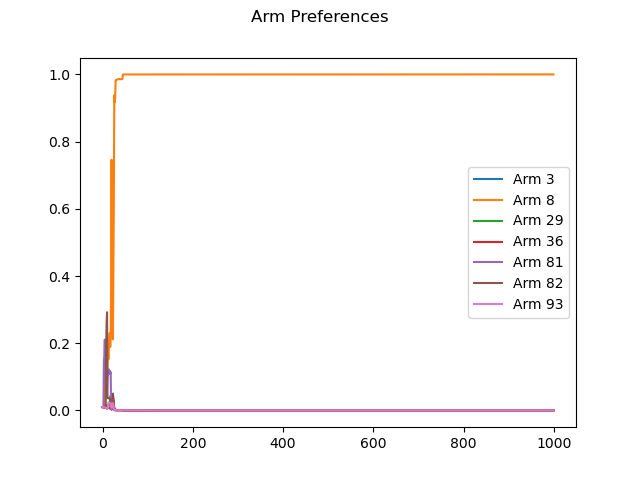
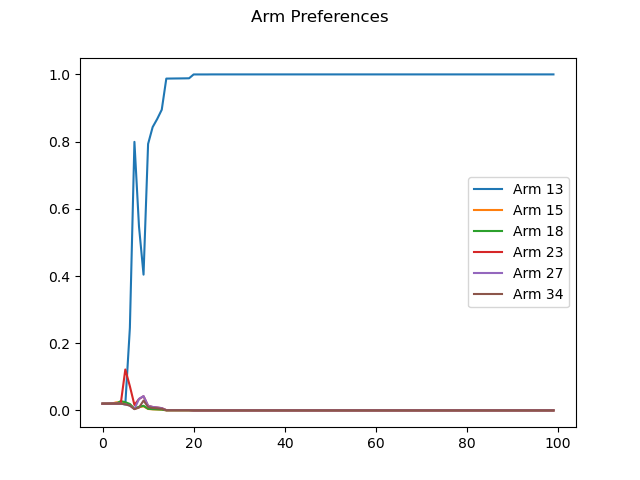
updated file system for saving graphs

diff --git a/main.py b/main.py
@@ -4,18 +4,19 @@ from agent import Agent
 from random import randint
 from matplotlib import pyplot as plt
 import os.path
+import pathlib
 
 class Main:
     def __init__(self):
-        self.arm_num = 100
+        self.arm_num = 50
         self.machine = Machine(self.arm_num)
         self.agent = Agent(self.machine)
         self.used_arms = []         #used to reference which arms were actually used in gradient method
 
     @staticmethod
     def get_path(file_name):
-        save_path = r'C:\Users\ejbra\Desktop\N-Armed-Bandit\records'
-        complete_name = os.path.join(save_path,file_name+'.png')
+        abs_path = pathlib.Path(__file__).parent.absolute()
+        complete_name = os.path.join(abs_path,'records',file_name+'.png')
         return complete_name
 
     @staticmethod
@@ -91,7 +92,7 @@ class Main:
 
 if __name__ == "__main__":
     main = Main()
-    main.compare_graph(1000)
+    main.compare_graph(100)
     main.preference_graph()
     for arm in main.used_arms:
         print(arm)

diff --git a/agent.py b/agent.py
@@ -54,8 +54,13 @@ class Agent:
 
     def probability_calc(self):     #iterates through and updates all probabilities based on the current preference
         e_sum  = 0
-        for pref in self.prefs:
-            e_sum += m.exp(pref)
+        try:
+            for pref in self.prefs:
+                e_sum += m.exp(pref)
+        except:
+            for pref in self.prefs:
+                pref -= 500
+                e_sum += m.exp(pref)
         for ind in range(len(self.machine.arms)):
             self.probs[ind] = m.exp(self.prefs[ind])/e_sum
 
